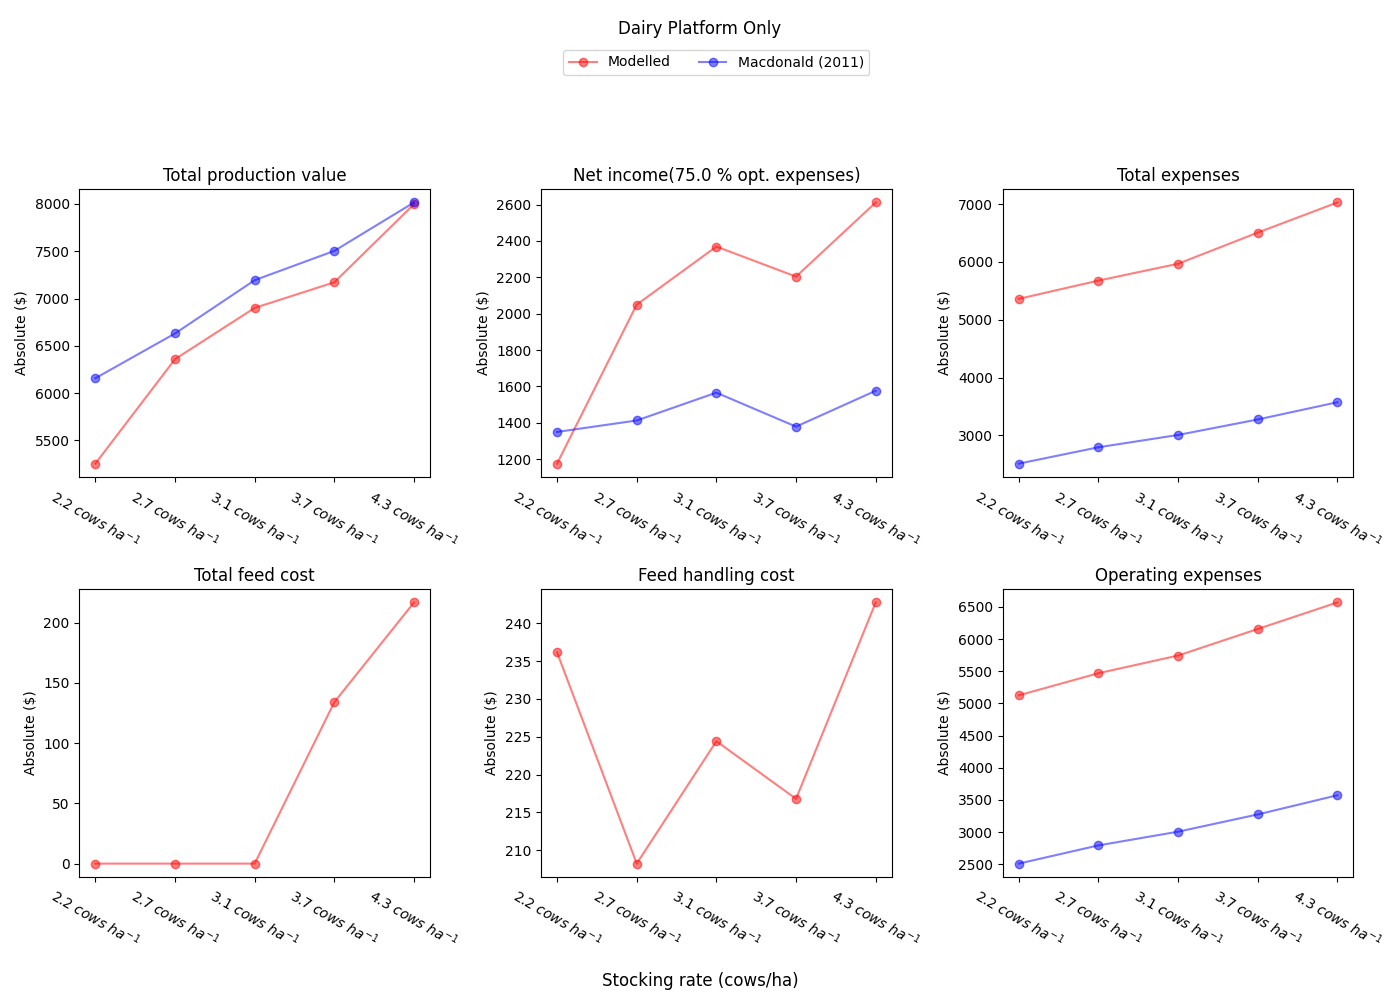
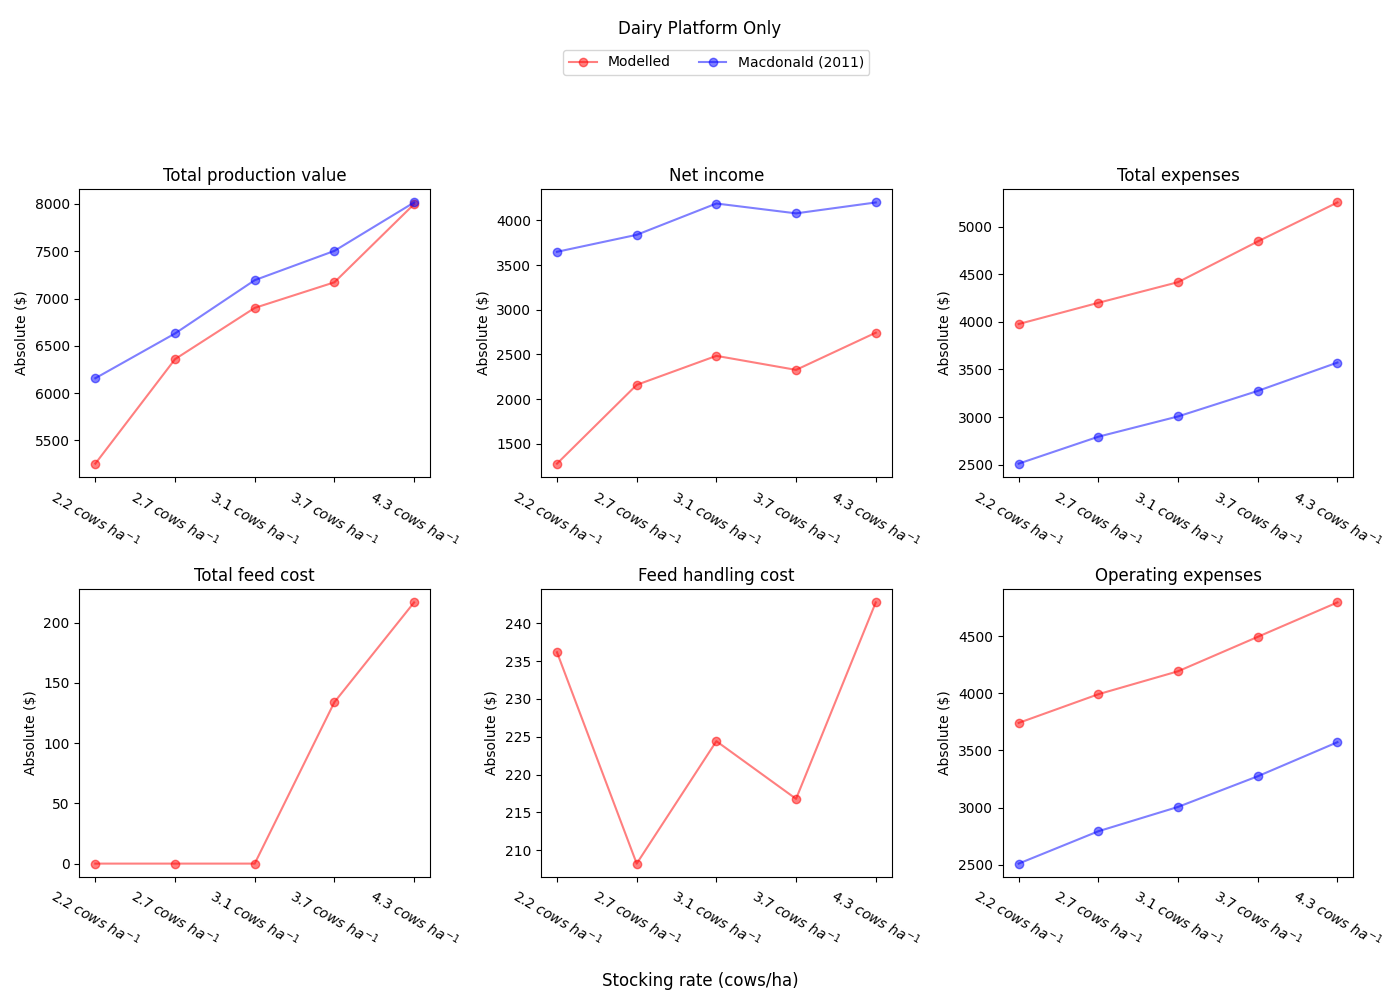
small fix for macdonal_2011

diff --git a/dairy_model_validataion/macdonal_2011.py b/dairy_model_validataion/macdonal_2011.py
@@ -57,8 +57,8 @@ pg_curve = pg_curve * np.array([month_len[m] for m in all_months])
 pg_curve = pg_curve / pg_curve.sum()
 
 opt_expenses = np.array([2732, 3090, 3311, 3633, 3993]) - feed_cost  # $/ha
-expect_net_income = gross_rev - feed_cost_use - opt_expenses
 expect_milk_prod_price = total_ms_yeild * milksolid_price
+expect_net_income = expect_milk_prod_price - feed_cost_use - opt_expenses
 
 use_dry_cow_feed = deepcopy(dry_cow_feed)
 use_dry_cow_feed[6] = 0
@@ -106,7 +106,7 @@ def run_farm_model(explore_plot=False):
             plt.show()
 
         _extract_data(dm, outdata, i, stock_rate, land_modifer=1, cow_modifer=1, add_sup_cost=0,
-                      additional_stock_modifier=1, )
+                      additional_stock_modifier=1, expense_modifier=0.73)
     base_idx = 3
     fig, axs, fig_money, moneyaxs = _plot_outputs(outdata,
                                                   stocking_rates,
@@ -121,7 +121,6 @@ def run_farm_model(explore_plot=False):
                                                   xticklabs=[f'{sr}' + ' $cows~ha^{-1}$' for sr in stocking_rates],
 
                                                   plot_rel=False, plot_money_rel=False,
-                                                  expense_modifier_for_net=0.75
                                                   )
     fig.suptitle('Dairy Platform Only')
     fig_money.suptitle('Dairy Platform Only')
@@ -171,13 +170,13 @@ def run_farm_model_no_mod(explore_plot=False):
 
                       cow_modifer=cow_modifyer, land_modifer=land_modifyer,
                       add_sup_cost=0,
-                      additional_stock_modifier=1, )
+                      additional_stock_modifier=1, expense_modifier=0.73)
 
         _extract_data(dm, outdata_raw, i, stock_rate,
 
                       # cow_modifer=cow_modifyer, land_modifer=land_modifyer,
                       add_sup_cost=0,
-                      additional_stock_modifier=1, )
+                      additional_stock_modifier=1,expense_modifier=0.73 )
     base_idx = 3
     fig, axs, fig_money, moneyaxs = _plot_outputs(outdata,
                                                   stocking_rates,
@@ -191,8 +190,7 @@ def run_farm_model_no_mod(explore_plot=False):
                                                   base_x=base_idx,
                                                   xticklabs=[f'{sr}' + ' $cows~ha^{-1}$' for sr in stocking_rates],
 
-                                                  plot_rel=False, plot_money_rel=False,
-                                                  expense_modifier_for_net=1
+                                                  plot_rel=False, plot_money_rel=False
                                                   )
     fig.suptitle('Full System - Similar Imports\nAdjusted for dairy platform size')
     fig_money.suptitle('Full System - Similar Imports\nAdjusted for dairy platform size')
@@ -218,7 +216,7 @@ def run_farm_model_no_mod(explore_plot=False):
                                                                              stocking_rates],
 
                                                                   plot_rel=True, plot_money_rel=True,
-                                                                  expense_modifier_for_net=1
+
                                                                   )
     fig_raw.suptitle('Full System - Similar Imports\nRaw values')
     fig_money_raw.suptitle('Full System - Similar Imports\nRaw values')
@@ -268,13 +266,13 @@ def run_farm_model_no_mod_no_feed_limit(explore_plot=False):
 
                       cow_modifer=cow_modifyer, land_modifer=land_modifyer,
                       add_sup_cost=0,
-                      additional_stock_modifier=1, )
+                      additional_stock_modifier=1, expense_modifier=0.73)
 
         _extract_data(dm, outdata_raw, i, stock_rate,
 
                       # cow_modifer=cow_modifyer, land_modifer=land_modifyer,
                       add_sup_cost=0,
-                      additional_stock_modifier=1, )
+                      additional_stock_modifier=1, expense_modifier=0.73)
     base_idx = 3
     fig, axs, fig_money, moneyaxs = _plot_outputs(outdata,
                                                   stocking_rates,
@@ -289,7 +287,6 @@ def run_farm_model_no_mod_no_feed_limit(explore_plot=False):
                                                   xticklabs=[f'{sr}' + ' $cows~ha^{-1}$' for sr in stocking_rates],
 
                                                   plot_rel=True, plot_money_rel=True,
-                                                  expense_modifier_for_net=1
                                                   )
     fig.suptitle('Full System - Less Feed Constrained\nAdjusted for dairy platform size')
     fig_money.suptitle('Full System - Less Feed Constrained\nAdjusted for dairy platform size')
@@ -313,7 +310,6 @@ def run_farm_model_no_mod_no_feed_limit(explore_plot=False):
                                                                              stocking_rates],
 
                                                                   plot_rel=True, plot_money_rel=True,
-                                                                  expense_modifier_for_net=1
                                                                   )
     fig_raw.suptitle('Full System - Less Feed Constrained\nRaw values')
     fig_money_raw.suptitle('Full System - Less Feed Constrained\nRaw values')

diff --git a/dairy_model_validataion/supporting_script.py b/dairy_model_validataion/supporting_script.py
@@ -18,7 +18,7 @@ def _plot_outputs(outdata,
                   xticklabs,
 
                   plot_rel=False, plot_money_rel=True,
-                  expense_modifier_for_net=1):
+                  ):
     rel_sr = stocking_rates[base_x]
     nanv = np.full_like(stocking_rates, np.nan)
     keys = 'total_prod', 'last_feed', 'feed_import', 'last_lact', 'total_feed_demand', 'prod_per_cow'
@@ -108,9 +108,6 @@ def _plot_outputs(outdata,
 
         got = outdata.loc[xs, key]
         expect = rport[xs]
-        if expense_modifier_for_net != 1 and key == 'net_income':
-            got = got + outdata.loc[xs, 'op_expenses'] * (1-expense_modifier_for_net)
-            nm = nm + f'({(expense_modifier_for_net*100)} % opt. expenses)'
         ax.set_ylabel(f'Absolute ({u})')
         ax.plot(xplot, got, label='Modelled', c='r', alpha=0.5, marker='o')
         ax.plot(xplot, expect, label=study_name, c='b', alpha=0.5, marker='o')
@@ -129,7 +126,7 @@ def _plot_outputs(outdata,
     return fig, axs, fig_money, moneyaxs
 
 def _extract_data(dm, outdata, i, stock_rate, land_modifer=1, cow_modifer=1, add_sup_cost=0,
-                  additional_stock_modifier=1):
+                  additional_stock_modifier=1, expense_modifier=1):
     assert issubclass(type(dm), SimpleDairyModel)
     tprod = np.nansum(dm.model_prod) / land_modifer
     last_lact = dm.out_lactating_cow_fraction[np.where((dm.all_days == 31) & (dm.all_months == 5))][0, 0]
@@ -152,7 +149,7 @@ def _extract_data(dm, outdata, i, stock_rate, land_modifer=1, cow_modifer=1, add
                                             dm.model_feed_cost.sum())
     outdata.loc[i, 'op_expenses'] = sum(list(get_operating_expenses(
         stock_rate,
-        addition_stock_modifer=additional_stock_modifier).values()))
+        addition_stock_modifer=additional_stock_modifier).values())) * expense_modifier
     outdata.loc[i, 'total_expenses'] = outdata.loc[i, 'total_feed_cost'] + outdata.loc[i, 'op_expenses'] + \
                                        outdata.loc[i, 'feed_handling_cost']
     outdata.loc[i, 'net_income'] = outdata.loc[i, 'money'] - outdata.loc[i, 'op_expenses']
